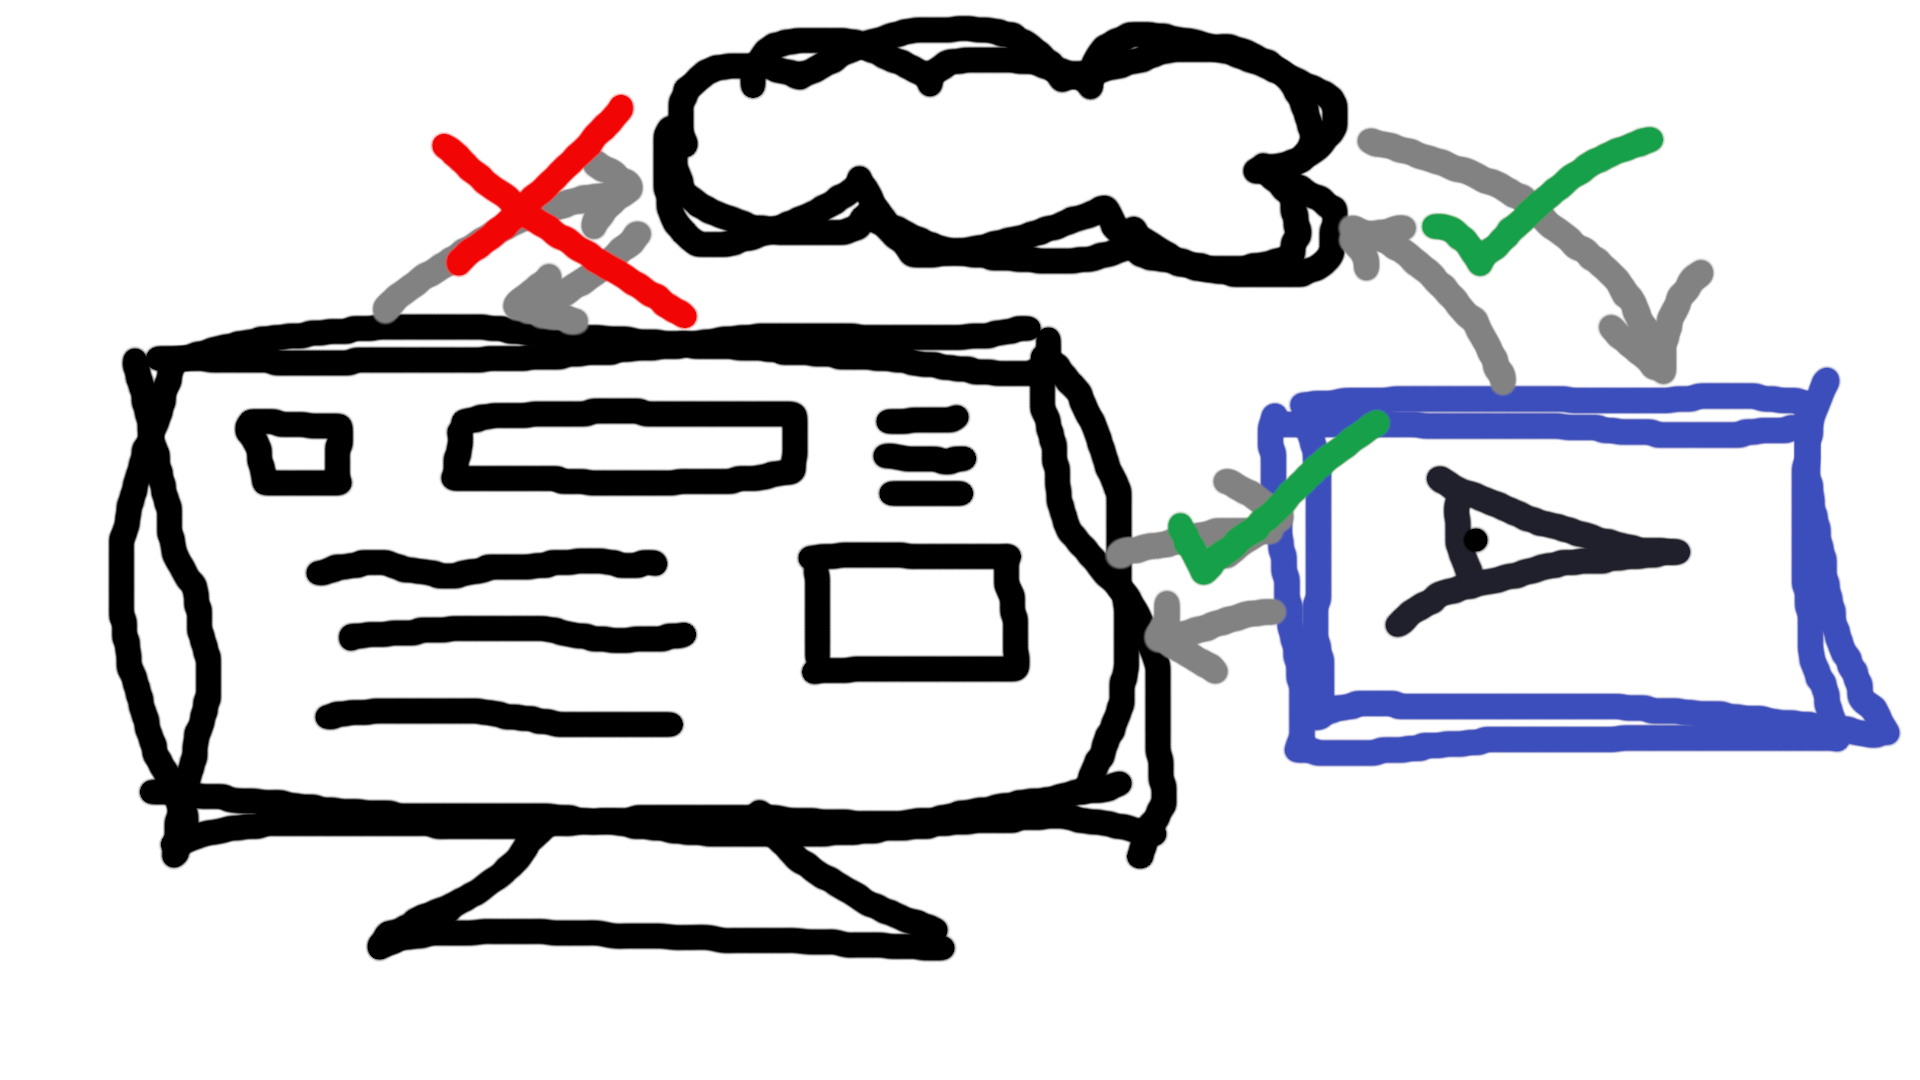
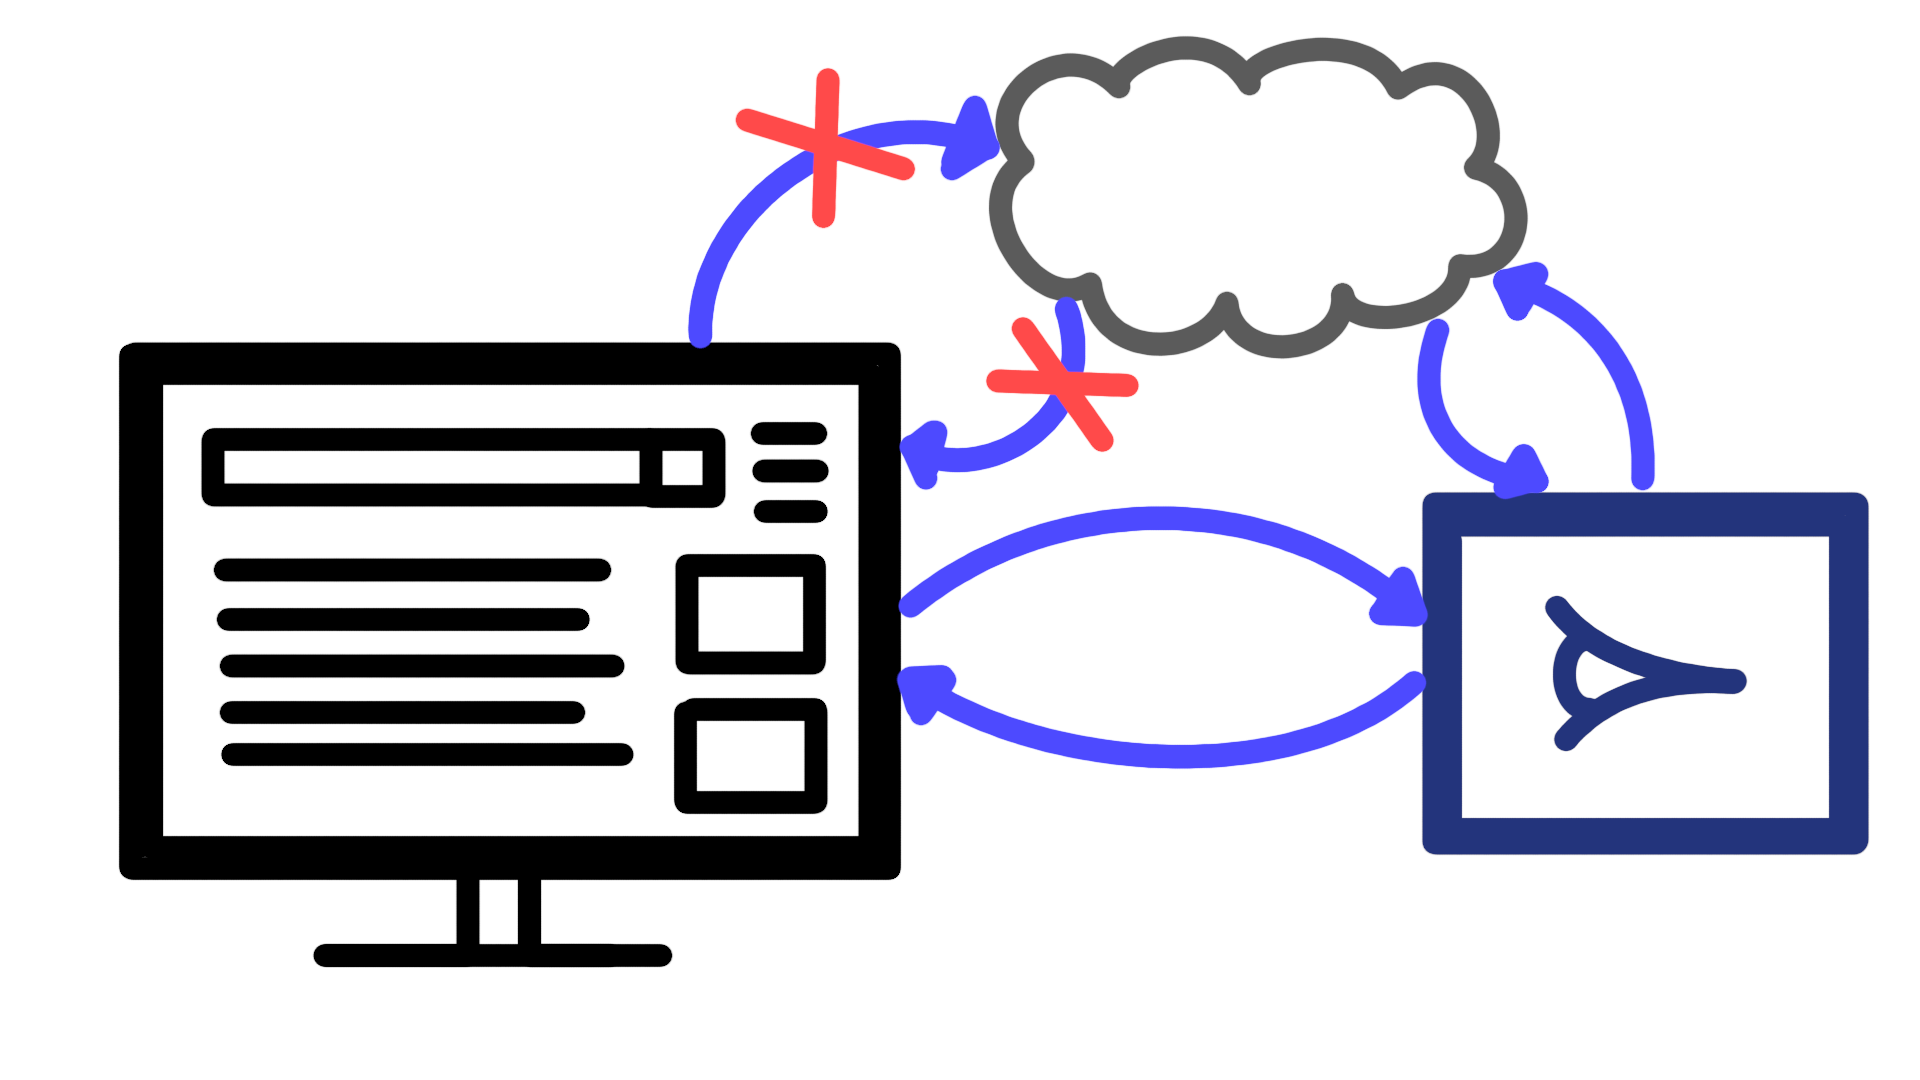
Diagram fix

diff --git a/_posts/2020-08-25-Micro-Lab.md b/_posts/2020-08-25-Micro-Lab.md
@@ -51,7 +51,7 @@ This post is short. You're here to get set up with a simple web hacking lab, may
 
 The core setup of this lab is a browser and a proxy; we use the browser to view and interact with web pages on the client side (javascript, HTML etc.), we use the proxy to catch all that network traffic the browser sends back to the servers.
 
-{% include figure image_path="/assets/images/posts/micro_lab/proxy-diag.png" alt="Web Proxy Diagram." caption="With one of our Web Testing proxies, your traffic doesn't go direct to the web; instead, your proxy accepts and forwards the traffic accordingly. This lets you inspect and manipulate requests as you see fit too." %}
+{% include figure image_path="/assets/images/posts/micro_lab/proxy-diag-2.png" alt="Web Proxy Diagram." caption="With one of our Web Testing proxies, your traffic doesn't go direct to the web; instead, your proxy accepts and forwards the traffic accordingly. This lets you inspect and manipulate requests as you see fit too." %}
 
 The addition of this proxy element will allow you to really get a solid grounding in web hacking; even if you're not into manipulating requests, you can leave that proxy running and just use it view and understand the web protocols in play when you browse, as you become more confident, you can start to use that proxy to edit requests, scan for known vulnerabilities, or carry out automated tests you configure yourself.
 
